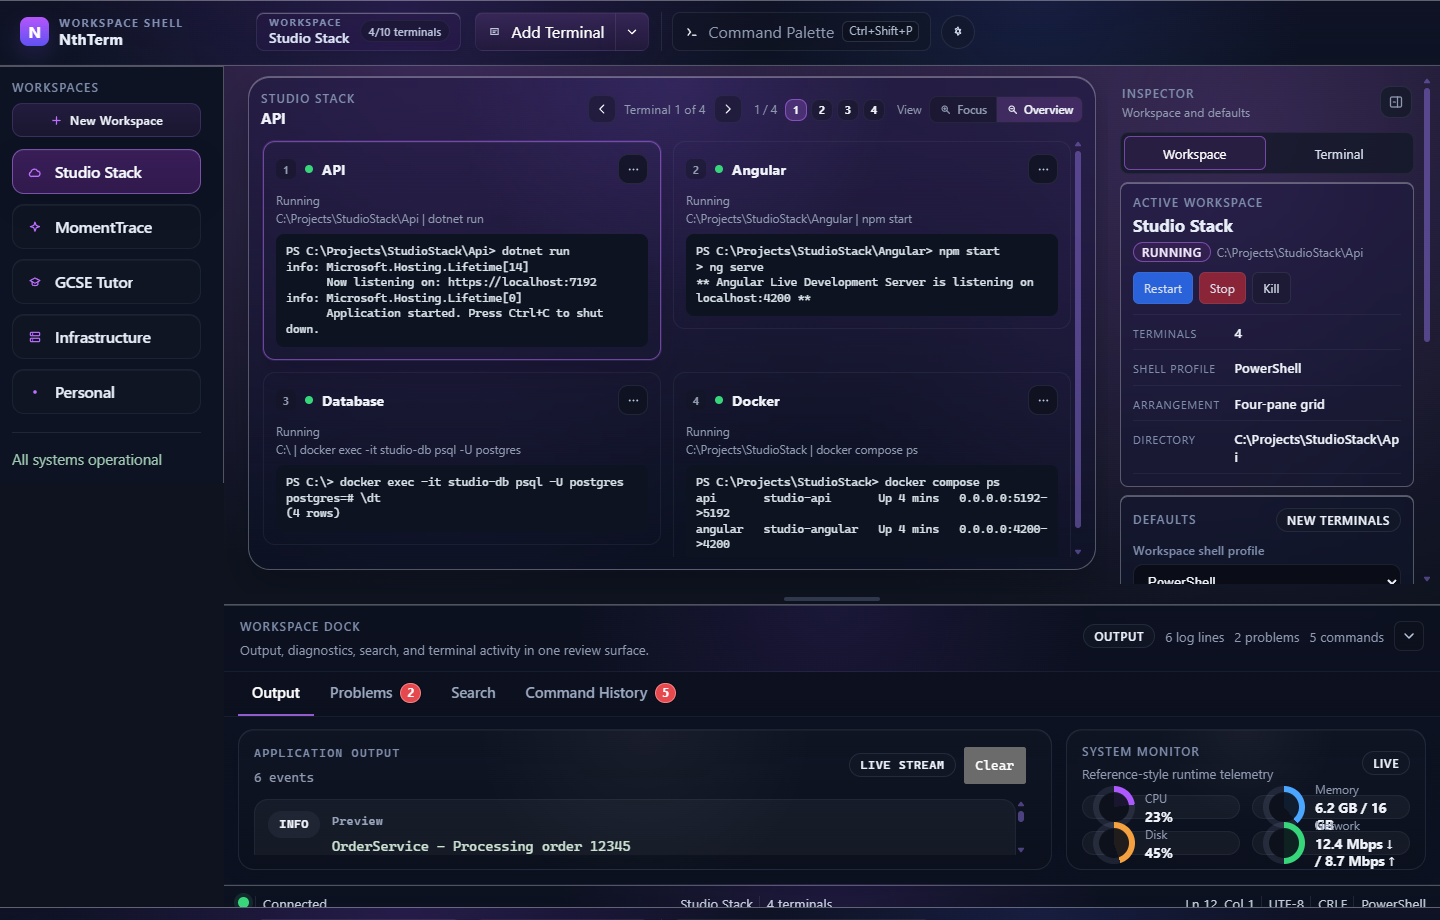
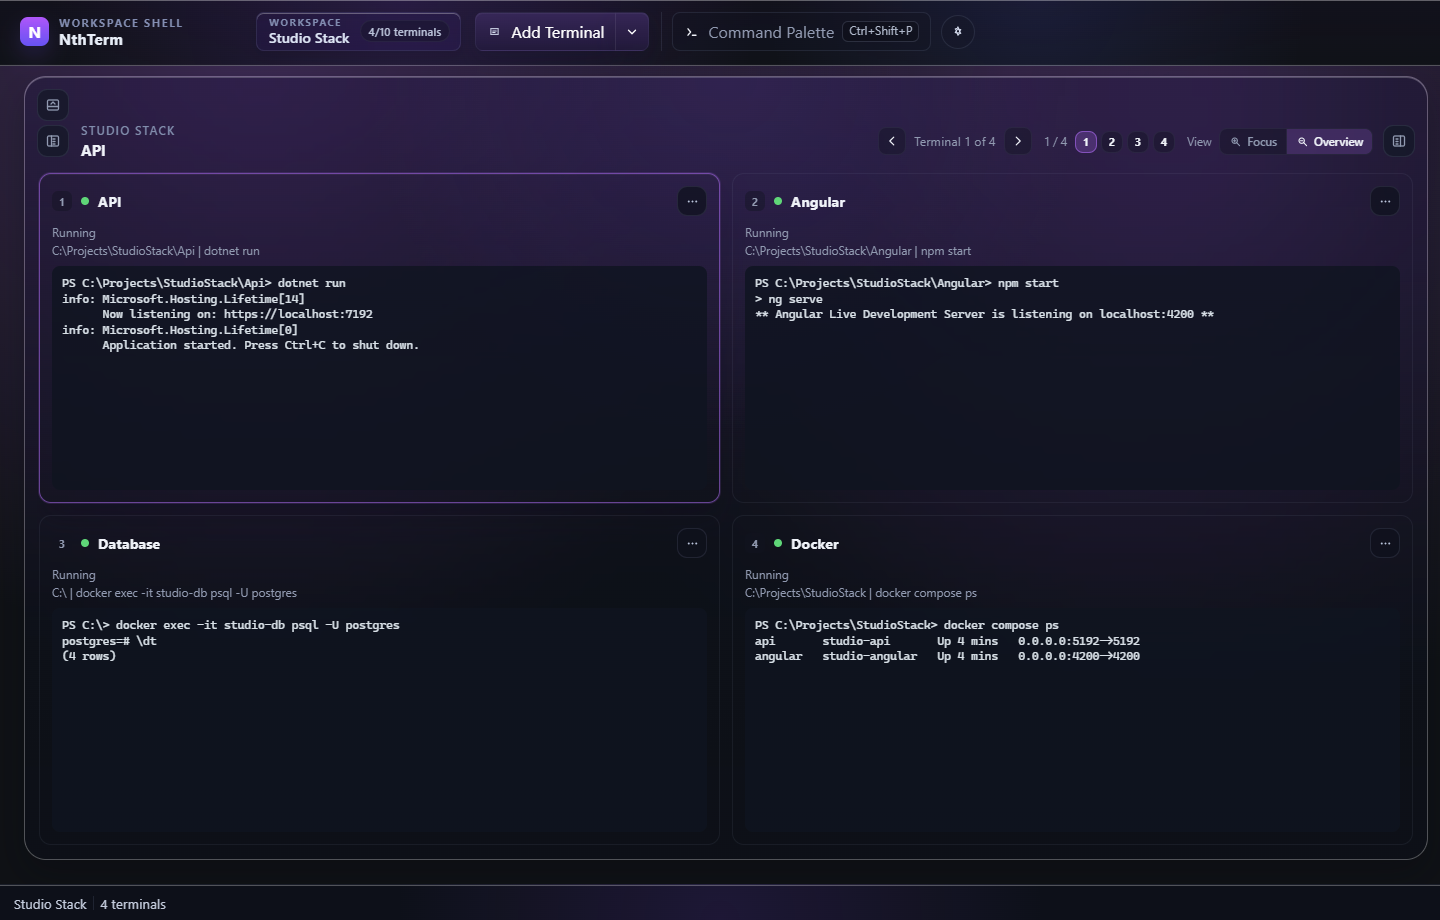
Cut unsigned 0.1.0-rc.3 for post-RC2 chrome, Overview tiling, and transparency.
Point package, changelog, README, and GitHub Pages at the new candidate so CI can publish Win+mac artifacts from the tag.

diff --git a/site/docs.html b/site/docs.html
@@ -32,7 +32,7 @@
         <a href="https://github.com/nwaoga/NthTerm">GitHub</a>
         <a
           class="topnav-cta"
-          href="https://github.com/nwaoga/NthTerm/releases/tag/v0.1.0-rc.2"
+          href="https://github.com/nwaoga/NthTerm/releases/tag/v0.1.0-rc.3"
           >Download</a
         >
       </nav>
@@ -92,7 +92,7 @@
           <ol class="docs-steps">
             <li>
               Download the
-              <a href="https://github.com/nwaoga/NthTerm/releases/tag/v0.1.0-rc.2">v0.1.0-rc.2</a>
+              <a href="https://github.com/nwaoga/NthTerm/releases/tag/v0.1.0-rc.3">v0.1.0-rc.3</a>
               release candidate for your platform (Windows NSIS, or macOS dmg / zip).
             </li>
             <li>Run the installer or open the app from the archive.</li>
@@ -259,7 +259,7 @@
         <section class="docs-section" id="unsigned">
           <h2>Unsigned RC note</h2>
           <p>
-            <strong>0.1.0-rc.2</strong> is intentionally unsigned. Windows SmartScreen and macOS Gatekeeper may
+            <strong>0.1.0-rc.3</strong> is intentionally unsigned. Windows SmartScreen and macOS Gatekeeper may
             warn on first launch until Authenticode signing and Apple notarization are enabled.
           </p>
           <ul class="docs-list">
@@ -274,7 +274,7 @@
             <li>This is expected for the public RC — not a corrupted download.</li>
           </ul>
           <p class="docs-cta-line">
-            <a class="btn btn-primary" href="https://github.com/nwaoga/NthTerm/releases/tag/v0.1.0-rc.2"
+            <a class="btn btn-primary" href="https://github.com/nwaoga/NthTerm/releases/tag/v0.1.0-rc.3"
               >Download RC</a
             >
             <a class="btn btn-ghost" href="./index.html">← Back to home</a>
@@ -286,13 +286,13 @@
     <footer class="footer">
       <div class="footer-brand">
         <span class="brand-mark sm">N</span>
-        <span>NthTerm · 0.1.0-rc.2</span>
+        <span>NthTerm · 0.1.0-rc.3</span>
       </div>
       <div class="footer-links">
         <a href="./index.html">Home</a>
         <a href="./docs.html">How to use</a>
         <a href="https://github.com/nwaoga/NthTerm">GitHub</a>
-        <a href="https://github.com/nwaoga/NthTerm/releases/tag/v0.1.0-rc.2">Releases</a>
+        <a href="https://github.com/nwaoga/NthTerm/releases/tag/v0.1.0-rc.3">Releases</a>
       </div>
     </footer>
 

diff --git a/site/index.html b/site/index.html
@@ -45,7 +45,7 @@
           <div class="cta-row" id="download">
             <a
               class="btn btn-primary"
-              href="https://github.com/nwaoga/NthTerm/releases/tag/v0.1.0-rc.2"
+              href="https://github.com/nwaoga/NthTerm/releases/tag/v0.1.0-rc.3"
               >Download RC</a
             >
             <a class="btn btn-ghost" href="https://github.com/nwaoga/NthTerm">View source →</a>
@@ -176,11 +176,11 @@
         <h2>Try NthTerm now.</h2>
         <p class="section-copy">Grab the latest release candidate for your platform.</p>
         <div class="platform-row">
-          <a class="platform-card" href="https://github.com/nwaoga/NthTerm/releases/tag/v0.1.0-rc.2">
+          <a class="platform-card" href="https://github.com/nwaoga/NthTerm/releases/tag/v0.1.0-rc.3">
             <strong>Download for Windows</strong>
             <span>NSIS installer · x64</span>
           </a>
-          <a class="platform-card" href="https://github.com/nwaoga/NthTerm/releases/tag/v0.1.0-rc.2">
+          <a class="platform-card" href="https://github.com/nwaoga/NthTerm/releases/tag/v0.1.0-rc.3">
             <strong>Download for macOS</strong>
             <span>dmg / zip · arm64 &amp; x64</span>
           </a>
@@ -191,13 +191,13 @@
     <footer class="footer">
       <div class="footer-brand">
         <span class="brand-mark sm">N</span>
-        <span>NthTerm · 0.1.0-rc.2</span>
+        <span>NthTerm · 0.1.0-rc.3</span>
       </div>
       <div class="footer-links">
         <a href="./docs.html">How to use</a>
         <a href="https://github.com/nwaoga/NthTerm">GitHub</a>
         <a href="https://github.com/nwaoga/NthTerm/issues">Issues</a>
-        <a href="https://github.com/nwaoga/NthTerm/releases/tag/v0.1.0-rc.2">Releases</a>
+        <a href="https://github.com/nwaoga/NthTerm/releases/tag/v0.1.0-rc.3">Releases</a>
       </div>
     </footer>
   </body>

diff --git a/ai/project-plan.md b/ai/project-plan.md
@@ -16,9 +16,9 @@ Users should be able to create, save, restore, and manage terminal workspaces wi
 
 ---
 
-## Current State (2026-08-29)
+## Current State (2026-09-01)
 
-**Phase:** `0.1.0-rc.2` published. Feature roadmap, unsigned Win/mac packaging, public landing page, stacked UX polish, macOS smoke automation, post-RC2 collapsed chrome, inspector shell apply-on-change, fill-stage Overview tiling, and window transparency are on `main`.
+**Phase:** Cutting `0.1.0-rc.3`. Post-RC2 collapsed chrome, inspector shell apply-on-change, fill-stage Overview tiling, window transparency, and How to use docs are on `main` and going into this unsigned RC.
 
 **Working today:**
 - Public RC marketing page at `https://nwaoga.github.io/NthTerm/` (static `site/`, GitHub Pages)
@@ -62,7 +62,25 @@ Users should be able to create, save, restore, and manage terminal workspaces wi
 - Inactive tool placeholders were removed from the workspace rail
 - Terminal arrangement now follows pane count automatically instead of exposing 2-Up and 2x2 implementation modes
 
-**Last shipped:** Inspector shell apply + fill-stage Overview + window transparency on `main`; ADO [#172](https://dev.azure.com/blakboi/NthTerm/_workitems/edit/172), [#173](https://dev.azure.com/blakboi/NthTerm/_workitems/edit/173), and [#174](https://dev.azure.com/blakboi/NthTerm/_workitems/edit/174) Closed.
+**Last shipped:** Inspector shell apply + fill-stage Overview + window transparency on `main`; ADO [#172](https://dev.azure.com/blakboi/NthTerm/_workitems/edit/172), [#173](https://dev.azure.com/blakboi/NthTerm/_workitems/edit/173), and [#174](https://dev.azure.com/blakboi/NthTerm/_workitems/edit/174) Closed. Cutting `0.1.0-rc.3`.
+
+## Handover — 2026-09-01 (cut 0.1.0-rc.3)
+
+**Milestone:** `0.1.0-rc.3` is being cut from current `main`. Prior published release remains `v0.1.0-rc.2` until this tag and GitHub Release land.
+
+### Done
+- Version bump to `0.1.0-rc.3`; CHANGELOG, README, and GitHub Pages CTAs pointed at `v0.1.0-rc.3`.
+- Product notes cover collapsed chrome (#156), inspector Git Bash apply (#172), fill-stage Overview (#173), window transparency (#174), How to use docs, landing shots, and spawn/sizing fixes.
+- Landing Focus/Overview shots refreshed 2026-09-01 from Angular reference preview (collapsed chrome, fill-stage tiling, glass).
+
+### Next (when ready)
+1. Authenticode signing / Apple notarization / `electron-updater` — deferred until certificates exist.
+2. Otherwise: pick the next product story from day-to-day use.
+
+### Guardrails
+- `output/` is gitignored; do not force-add capture junk.
+- Preserve compact inspector (Workspace | Terminal), stacked focus/overview, and fill-stage Overview tiling.
+- Keep new code in feature folders/services; do not grow god files.
 
 ## Handover — 2026-08-29 (shell apply, overview tiling, transparency)
 
@@ -81,9 +99,8 @@ Users should be able to create, save, restore, and manage terminal workspaces wi
 - Live Electron: inspector Bash → Git Bash; Overview tiles fill the stage; transparency slider shows the desktop through chrome and the terminal.
 
 ### Next (when ready)
-1. Cut a beta from current `main` (e.g. `0.1.0-beta.1`), run `rc:verify`, tag, publish unsigned Win/mac assets.
-2. Authenticode signing / Apple notarization / `electron-updater` — deferred until certificates exist.
-3. Otherwise: pick the next product story from day-to-day use (landing screenshot refresh for collapsed chrome + tiling Overview + glass is a good follow-on).
+1. Authenticode signing / Apple notarization / `electron-updater` — deferred until certificates exist.
+2. Otherwise: pick the next product story from day-to-day use.
 
 ### Guardrails
 - `output/` is gitignored; do not force-add capture junk.
@@ -199,6 +216,8 @@ Users should be able to create, save, restore, and manage terminal workspaces wi
 7. ~~[#156](https://dev.azure.com/blakboi/NthTerm/_workitems/edit/156)~~ — Done. Collapsed workspace chrome, hideable workspaces rail, status-bar cleanup (`51f04c9`).
 8. ~~[#172](https://dev.azure.com/blakboi/NthTerm/_workitems/edit/172)~~ — Done. Inspector shell change restarts the PTY; Windows Bash prefers Git Bash.
 9. ~~[#173](https://dev.azure.com/blakboi/NthTerm/_workitems/edit/173)~~ — Done. Fill-stage Overview tiling grid that resizes with the window.
+10. ~~[#174](https://dev.azure.com/blakboi/NthTerm/_workitems/edit/174)~~ — Done. Window transparency slider including the terminal surface.
+11. Cut unsigned `0.1.0-rc.3` (2026-09-01) from current `main`.
 
 ### Stacked polish (#140)
 
@@ -222,7 +241,7 @@ Users should be able to create, save, restore, and manage terminal workspaces wi
 - Brand-first hero + short SWE-facing pitch (frontend / backend / Docker stack)
 - Real product shots: Focus (`site/media/focus.png`) + Overview (`site/media/overview.png`) from Angular reference preview
 - Feature triad mini-mocks: Focus, Workspaces, Stacked PTYs
-- Download CTAs: Windows + macOS → GitHub Release `v0.1.0-rc.2`
+- Download CTAs: Windows + macOS → GitHub Release `v0.1.0-rc.3`
 - Unsigned build callout (SmartScreen / Gatekeeper)
 - GitHub + Issues + Releases footer links
 - Visual language: midnight/purple glass; Cursor-like sparse page rhythm
@@ -232,7 +251,7 @@ Users should be able to create, save, restore, and manage terminal workspaces wi
 - Blog, newsletter, analytics suite, account/auth, auto-update pitch beyond “install over existing”
 - Live Electron acrylic chrome in marketing shots (browser reference preview used instead)
 
-Closed recently: [#135](https://dev.azure.com/blakboi/NthTerm/_workitems/edit/135), [#136](https://dev.azure.com/blakboi/NthTerm/_workitems/edit/136), [#137](https://dev.azure.com/blakboi/NthTerm/_workitems/edit/137), [#138](https://dev.azure.com/blakboi/NthTerm/_workitems/edit/138), [#139](https://dev.azure.com/blakboi/NthTerm/_workitems/edit/139), [#140](https://dev.azure.com/blakboi/NthTerm/_workitems/edit/140), [#141](https://dev.azure.com/blakboi/NthTerm/_workitems/edit/141), [#156](https://dev.azure.com/blakboi/NthTerm/_workitems/edit/156), [#172](https://dev.azure.com/blakboi/NthTerm/_workitems/edit/172), [#173](https://dev.azure.com/blakboi/NthTerm/_workitems/edit/173).
+Closed recently: [#135](https://dev.azure.com/blakboi/NthTerm/_workitems/edit/135), [#136](https://dev.azure.com/blakboi/NthTerm/_workitems/edit/136), [#137](https://dev.azure.com/blakboi/NthTerm/_workitems/edit/137), [#138](https://dev.azure.com/blakboi/NthTerm/_workitems/edit/138), [#139](https://dev.azure.com/blakboi/NthTerm/_workitems/edit/139), [#140](https://dev.azure.com/blakboi/NthTerm/_workitems/edit/140), [#141](https://dev.azure.com/blakboi/NthTerm/_workitems/edit/141), [#156](https://dev.azure.com/blakboi/NthTerm/_workitems/edit/156), [#172](https://dev.azure.com/blakboi/NthTerm/_workitems/edit/172), [#173](https://dev.azure.com/blakboi/NthTerm/_workitems/edit/173), [#174](https://dev.azure.com/blakboi/NthTerm/_workitems/edit/174).
 
 ## Historical Delivery Tracks
 

diff --git a/ai/prompts.md b/ai/prompts.md
@@ -13,11 +13,11 @@
 - Prefer small incremental stories and commits.
 
 ## Current Prompt Focus
-- **Milestone complete:** `0.1.0-rc.2` is tagged, verified, and published. Landing-page download links resolve.
+- **Cutting:** `0.1.0-rc.3` from current `main` (collapsed chrome, fill-stage Overview tiling, window transparency, How to use docs).
 - Landing page uses real Focus/Overview product shots from `site/media/` (Angular reference preview — Studio Stack demo); feature triad still uses CSS mini-mocks.
-- #138/#139/#140/#141/#156 Closed (ADO + repo). PR #1 and cloud setup PR #2 merged to `main`. Post-RC2 chrome: rails/dock start collapsed (`51f04c9`).
+- #138/#139/#140/#141/#156/#172/#173/#174 Closed (ADO + repo). PR #1 and cloud setup PR #2 merged to `main`.
 - Public RC page: `https://nwaoga.github.io/NthTerm/` (`site/` via GitHub Pages — static marketing only, not the Angular app).
-- Release: https://github.com/nwaoga/NthTerm/releases/tag/v0.1.0-rc.2 (unsigned Win + macOS assets).
+- Release target: https://github.com/nwaoga/NthTerm/releases/tag/v0.1.0-rc.3 (unsigned Win + macOS assets).
 - **Deferred:** Authenticode / Apple notarization / `electron-updater` until certificates exist.
 - Preserve the compact inspector hierarchy (Workspace | Terminal) and stacked focus/overview layout.
 - Renderer refactor is complete; keep new code in feature folders/services and do not grow god files.
@@ -26,11 +26,11 @@
 ## Handoff Summary
 - Product name: NthTerm
 - Themes: Midnight, Coffee, and White app chrome, with separate terminal color themes and ANSI palettes
-- Current milestone: `0.1.0-rc.2` published; Windows verify passed; macOS packaged smoke green on CI; GitHub Release live
+- Current milestone: `0.1.0-rc.3` being cut; prior `0.1.0-rc.2` remains the last published tag until this RC lands
 - Public site: `https://nwaoga.github.io/NthTerm/` — GitHub Pages from `site/` (`media/focus.png`, `media/overview.png`); workflow `.github/workflows/pages.yml`
-- Backlog: signing / notarization / auto-update only (no open RC publish items)
+- Backlog: signing / notarization / auto-update only (no open RC publish items after this cut)
 - Mac smoke evidence: `docs/verification/macos-smoke-v0.1.0-rc.2.json` from Actions run `31277571206`
-- Local verify bar: `npm run build` + `npm run test:ci` (45 Electron / 152 Angular)
+- Local verify bar: `npm run build` + `npm run test:ci` (45 Electron / 167 Angular)
 - Renderer: feature-oriented Angular shell with workspace-owned stable terminals, stacked focus/overview, compact inspector projections, and utility command history attributed by terminal ID
 - Electron: frameless window with Windows acrylic / macOS vibrancy chrome, queued Windows PTY lifecycle, stable-terminal start deduplication, platform-aware shells, and SQLite persistence
 - Upgrade policy for now: install newer build over existing install; AppData / Application Support preserved. `electron-updater` after code signing.

diff --git a/CHANGELOG.md b/CHANGELOG.md
@@ -1,8 +1,23 @@
 ## Unreleased
 
+## 0.1.0-rc.3 - 2026-09-01
+
+Unsigned Windows + macOS release candidate after collapsed chrome, fill-stage Overview tiling, window transparency, and public How to use docs.
+
+- Collapsed chrome by default (#156): hideable workspaces rail, inspector and dock start hidden, stage restore controls, and a status bar that shows workspace name plus terminal count only.
+- Inspector shell apply-on-change plus Windows Git Bash preference (#172).
+- Fill-stage Overview tiling that resizes with the window (#173).
+- Window transparency slider including the terminal surface (#174).
+- Public How to use docs on GitHub Pages with a sticky hideable sidenav.
+- Landing Focus/Overview screenshots (Studio Stack).
+- Linux CI spawn / Git Bash specs / packaged shell startup / ConPTY sizing fixes.
 - CI publishes unsigned Windows and macOS artifacts to a GitHub Release on version tags (`v*`).
-- Added a dispatchable **Publish GitHub Release** workflow to backfill a release from an existing Actions artifact run (for `v0.1.0-rc.2` and similar).
-- Added `npm run smoke:mac` and wired it into the macOS CI job for unsigned packaged-app smoke (#139); first green evidence in `docs/verification/macos-smoke-v0.1.0-rc.2.json`.
+- Added a dispatchable **Publish GitHub Release** workflow to backfill a release from an existing Actions artifact run.
+- Added `npm run smoke:mac` and wired it into the macOS CI job for unsigned packaged-app smoke (#139).
+
+### Known limitation
+
+Artifacts remain unsigned. Windows SmartScreen and macOS Gatekeeper warnings are expected until Authenticode signing and Apple notarization are configured. In-app auto-update is deferred; upgrade by installing the newer build over the existing install (AppData / Application Support is preserved).
 
 ## 0.1.0-rc.2 - 2026-08-02
 

diff --git a/README.md b/README.md
@@ -22,7 +22,7 @@ NthTerm is headed toward a rich desktop workspace experience for developers and 
 
 ## Current status
 
-Current milestone: **0.1.0-rc.2** (`v0.1.0-rc.2` tagged and published) — unsigned Windows and macOS release candidate (stacked focus/overview layout, glass chrome, platform packaging). Windows `rc:verify` passed; macOS packaged-app smoke green on CI (`npm run smoke:mac`). Downloads: [GitHub Release](https://github.com/nwaoga/NthTerm/releases/tag/v0.1.0-rc.2) and [landing page](https://nwaoga.github.io/NthTerm/). Signing / notarization deferred.
+Current milestone: **0.1.0-rc.3** (`v0.1.0-rc.3`) — unsigned Windows and macOS release candidate (collapsed chrome, fill-stage Overview tiling, window transparency). Downloads: [GitHub Release](https://github.com/nwaoga/NthTerm/releases/tag/v0.1.0-rc.3) and [landing page](https://nwaoga.github.io/NthTerm/). Signing / notarization deferred.
 
 Working today:
 
@@ -207,7 +207,7 @@ python scripts/generate-branding-assets.py
 4. Keep the unsigned CI path available for PR validation; add a separate protected release workflow/job that injects signing secrets
 
 GitHub Actions runs the same build and test path on pull requests and pushes to `main`. The Windows and macOS release jobs upload unsigned installer/app artifacts from the workflow run.
-Pushing a version tag such as `v0.1.0-rc.2` runs the same validation and produces the unsigned Windows and macOS artifacts for that candidate.
+Pushing a version tag such as `v0.1.0-rc.3` runs the same validation and produces the unsigned Windows and macOS artifacts for that candidate.
 
 After `npm run release:win`, validate install/reinstall and AppData preservation locally:
 

diff --git a/ai/stories.md b/ai/stories.md
@@ -4,6 +4,10 @@
 - [ ] Authenticode signing / Apple notarization / `electron-updater` — deferred until certificates exist
 
 ## Done
+- [x] Cut unsigned `0.1.0-rc.3` (2026-09-01) — post-RC2 collapsed chrome, Overview tiling, window transparency
+  - [x] Bump package/changelog; point README + `site/` at `v0.1.0-rc.3`
+  - [x] Refresh landing Focus/Overview shots for collapsed chrome + tiling Overview
+  - [x] Tag `v0.1.0-rc.3` to trigger CI Win+mac artifacts
 - [x] [#174](https://dev.azure.com/blakboi/NthTerm/_workitems/edit/174) Window transparency slider including the terminal surface (ADO Closed 2026-08-29)
   - [x] Settings 0–80% slider persisted as `nthterm.preferences.windowTransparency`
   - [x] CSS glass + clear Electron background; Windows acrylic off while sliding
